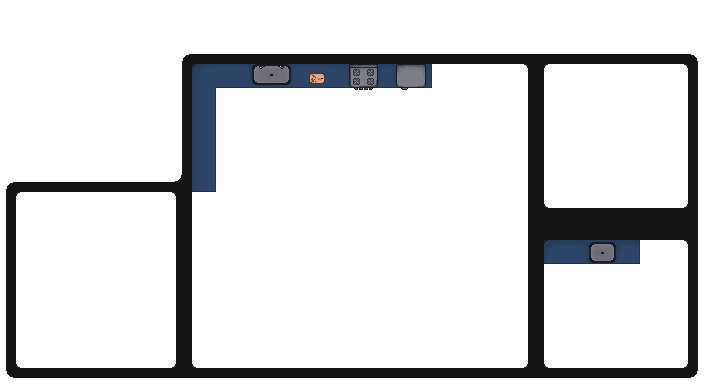
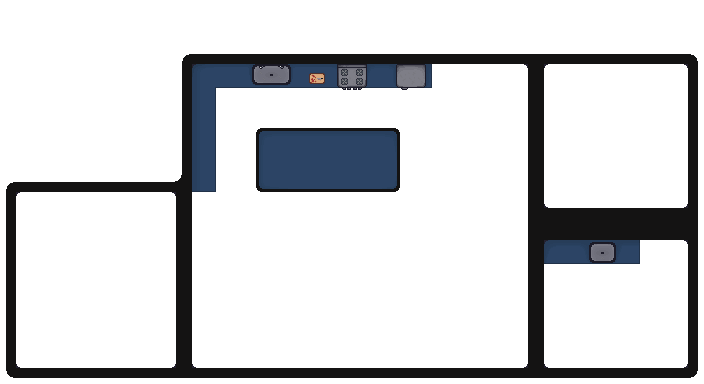
testing anim assets

Changed region(s): [[0.3438, 0.3125, 0.5938, 0.5], [0.4688, 0.1562, 0.5625, 0.25]]

diff --git a/OverworldMap.js b/OverworldMap.js
@@ -31,6 +31,11 @@ window.OverworldMaps = {
         x: utils.withGrid(16),
         y: utils.withGrid(12),
       }),
+      // ovenFlame: new Person({
+      //   x: utils.withGrid(16),
+      //   y: utils.withGrid(8),
+      //   src: '/assets/oven-anim.gif'
+      // })
       // npc1: new Person({
       //   x: utils.withGrid(20),
       //   y: utils.withGrid(12),
